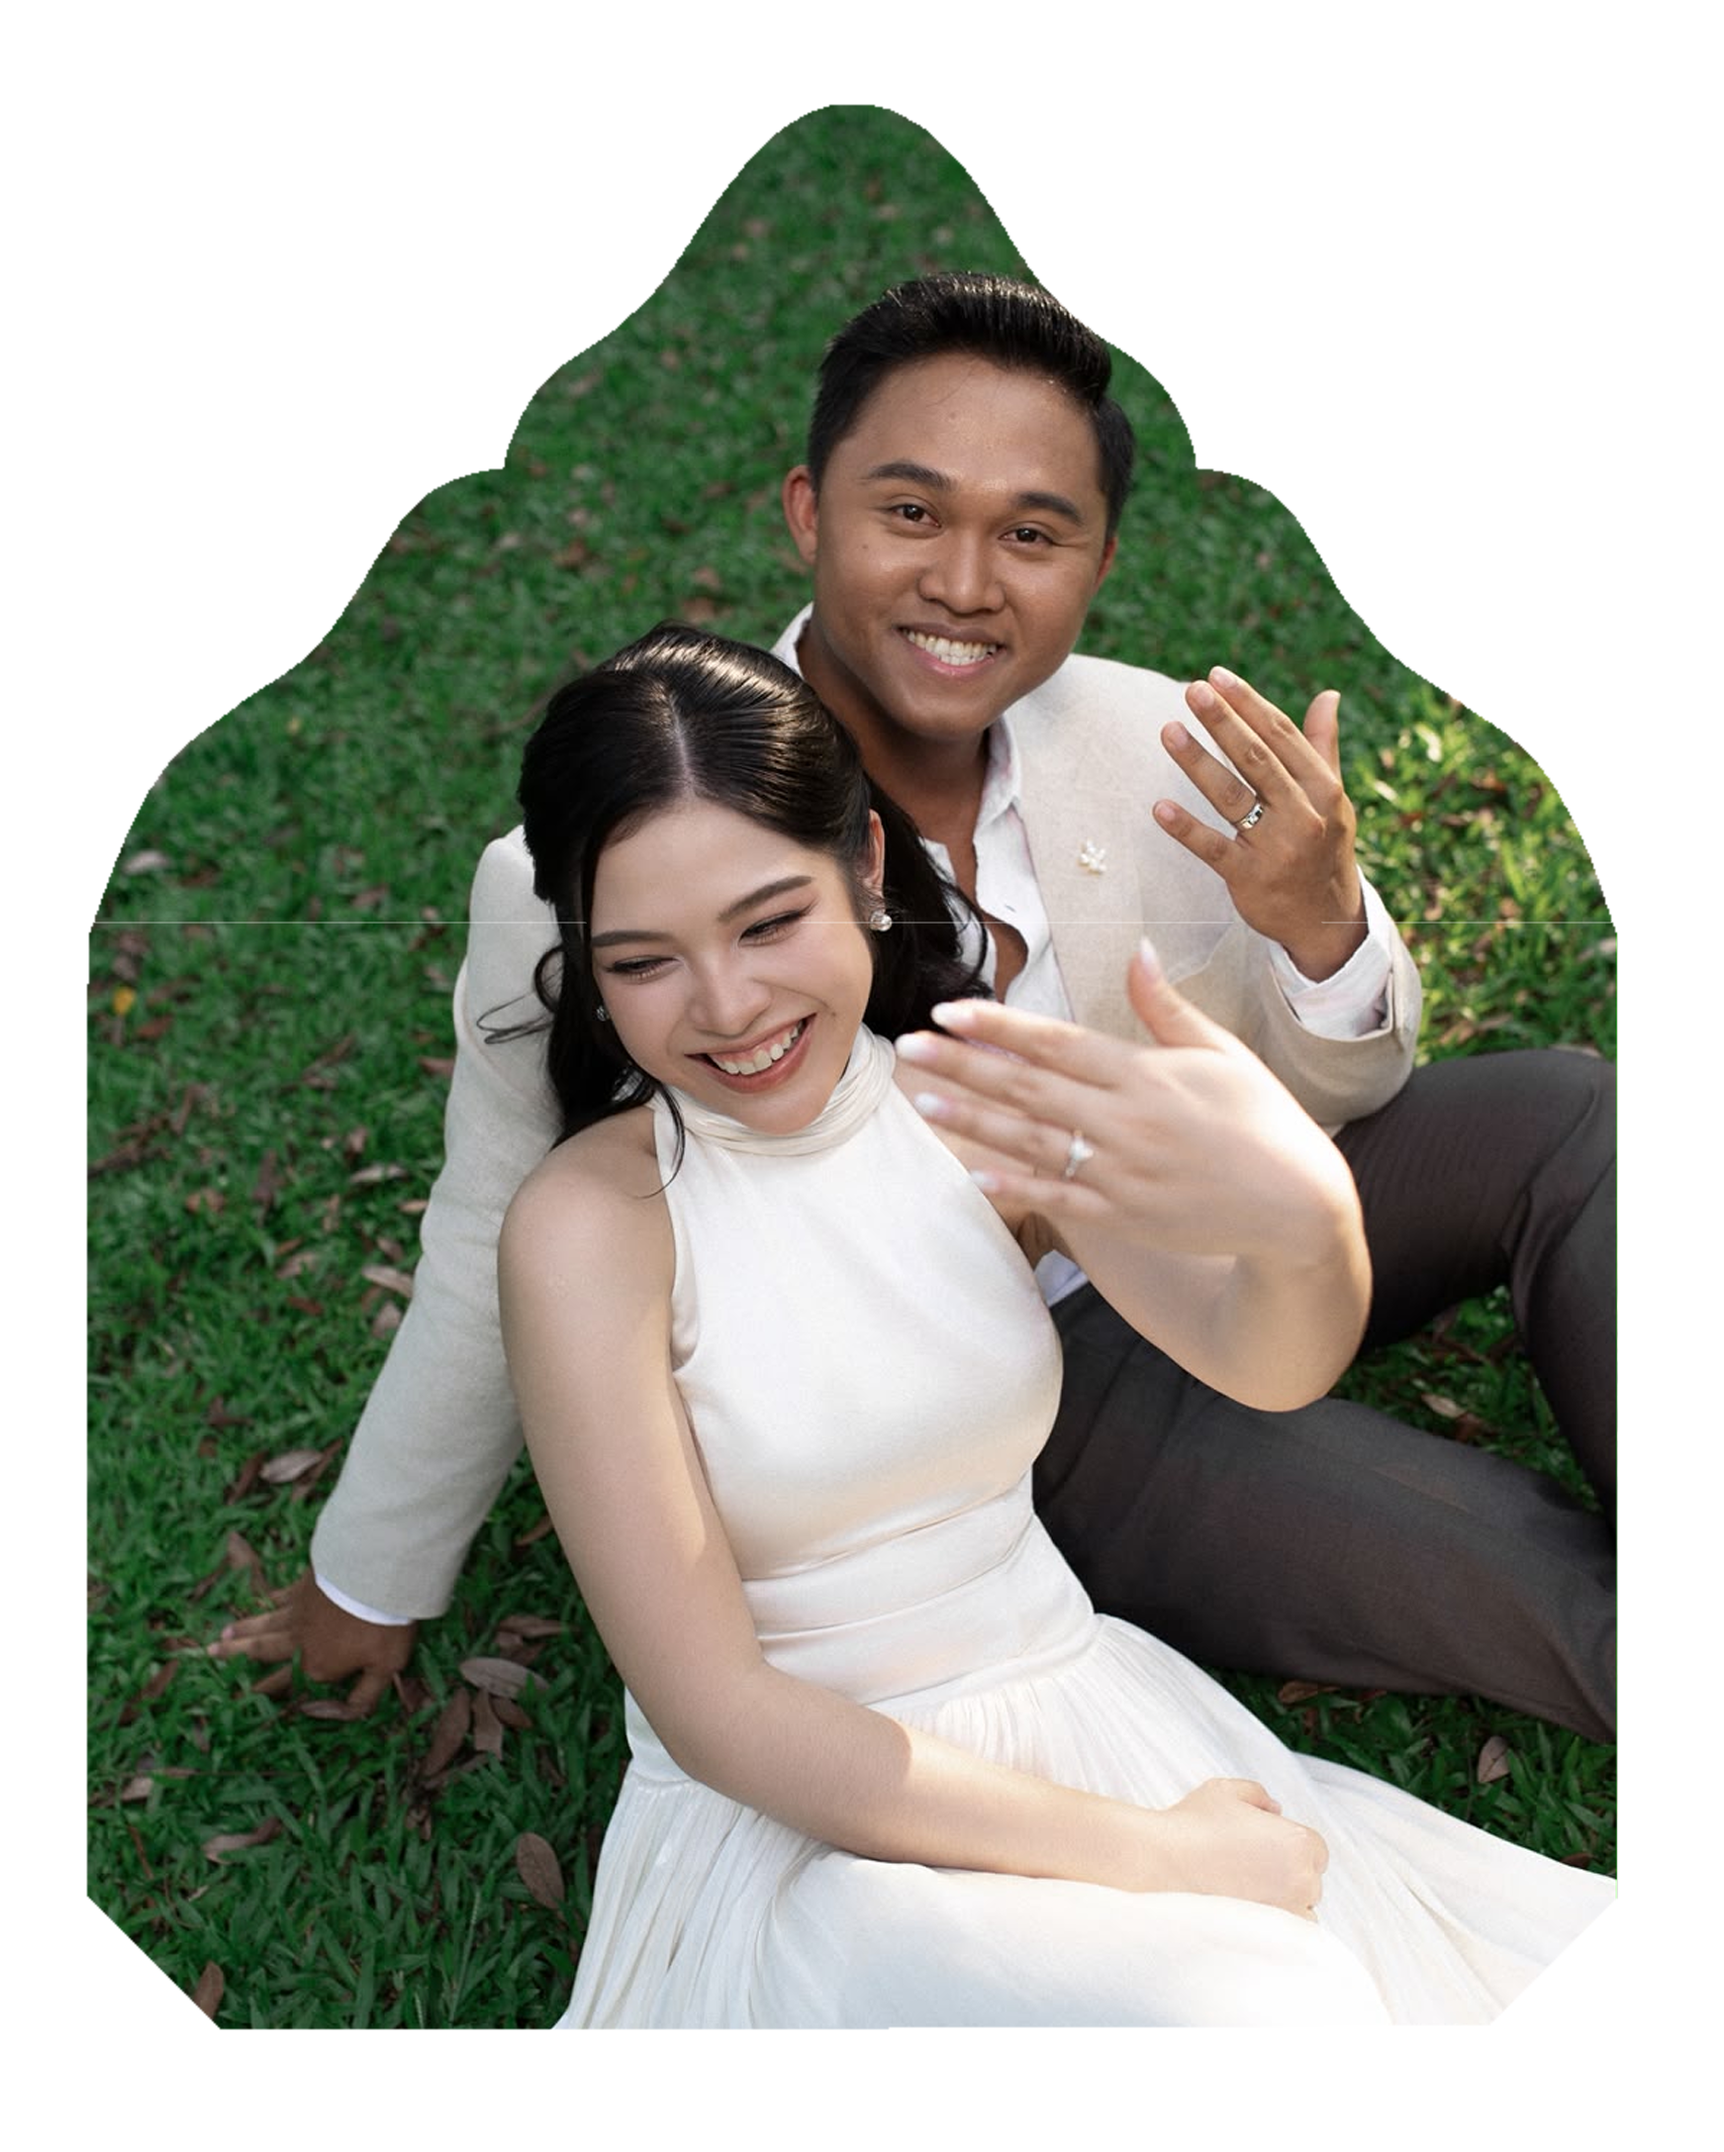
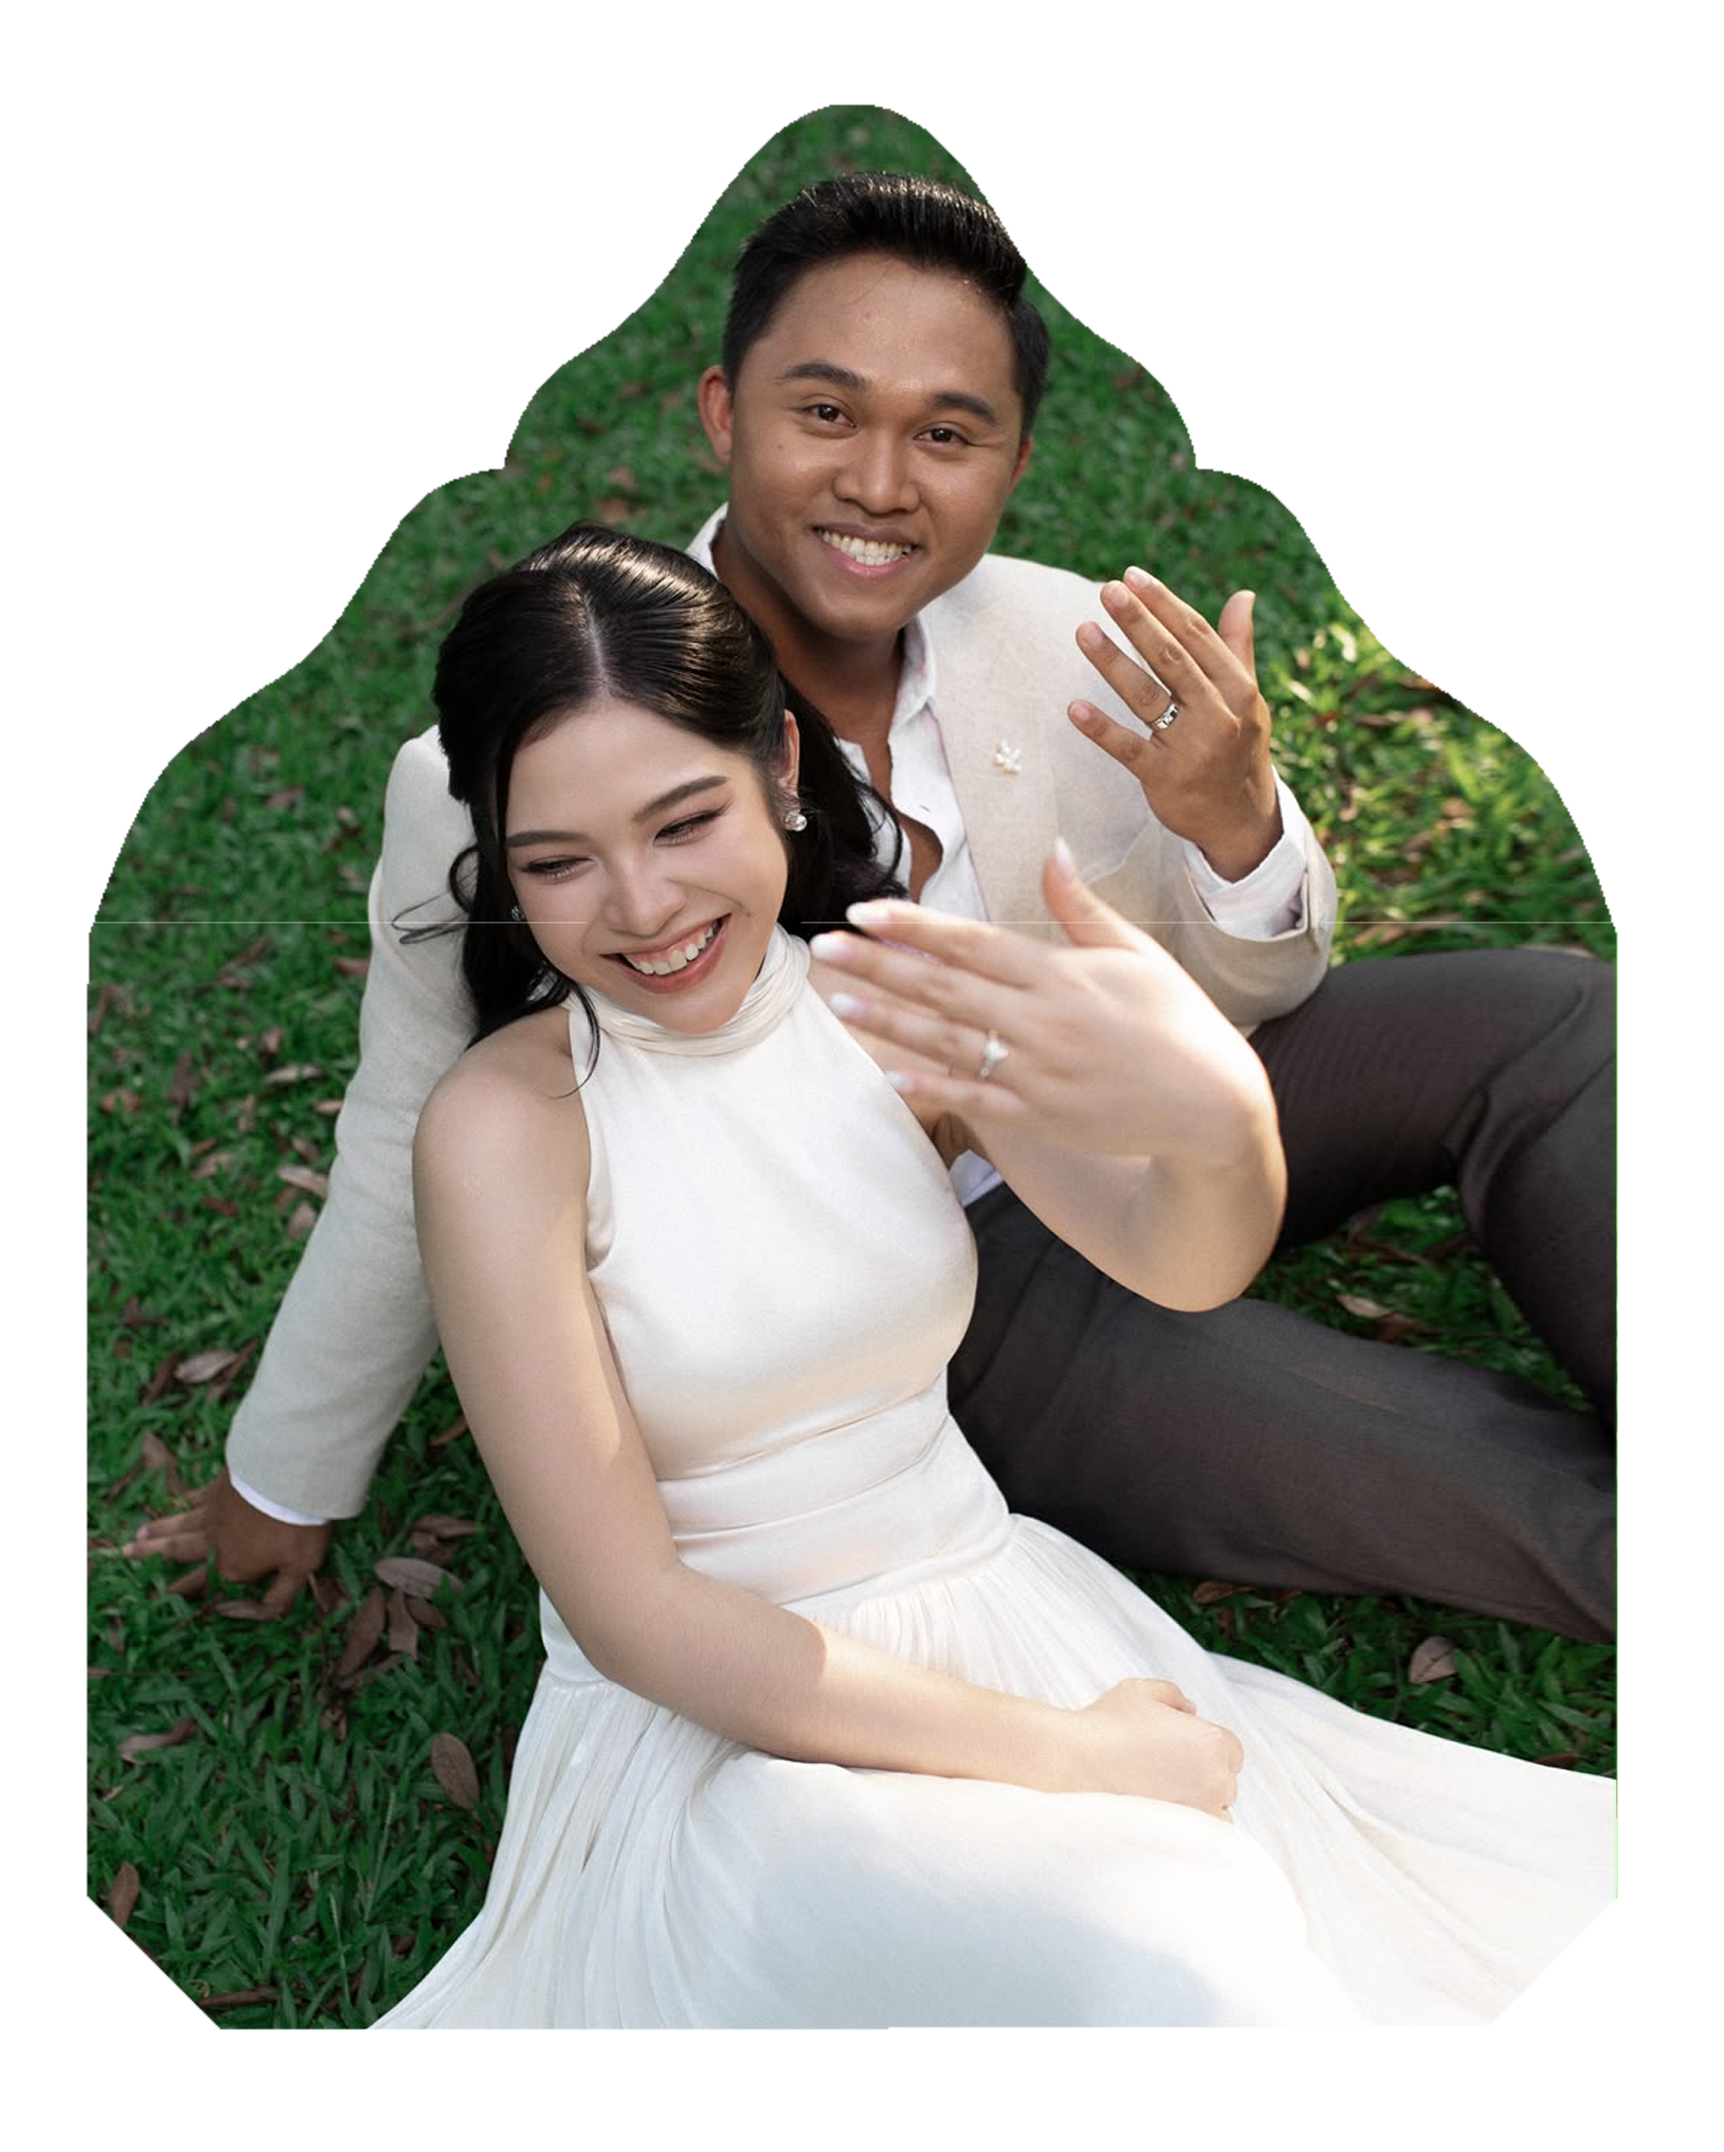
fix galleries position and brideHosts name

diff --git a/constants/index.ts b/constants/index.ts
@@ -46,42 +46,42 @@ export const invitation = {
   agenda: [
     {
       id: "baci",
-      time: "15:30",
+      time: "15:00",
       title: "Baci ceremony",
       icon: "/icons/baci.svg",
       side: "left" as const,
     },
     {
       id: "entrance",
-      time: "19:00",
+      time: "20:00",
       title: "Grand Entrance",
       icon: "/icons/entrance.svg",
       side: "right" as const,
     },
     {
       id: "dinner",
-      time: "20:00",
+      time: "20:30",
       title: "Gala Dinner",
       icon: "/icons/dinner.svg",
       side: "left" as const,
     },
     {
       id: "dance",
-      time: "20:30",
+      time: "21:00",
       title: "Lao Traditional Dance",
       icon: "/icons/dance.svg",
       side: "right" as const,
     },
     {
       id: "bouquet",
-      time: "21:30",
+      time: "22:00",
       title: "Bouquet Toss",
       icon: "/icons/bouquet.svg",
       side: "left" as const,
     },
     {
       id: "party",
-      time: "22:30",
+      time: "01:30",
       title: "Party till late",
       icon: "/icons/party.svg",
       side: "right" as const,
@@ -96,8 +96,8 @@ export const invitation = {
     groomHostsTitle: "ເຈົ້າພາບຝ່າຍຊາຍ",
     groomHosts: [
       { left: "ທ່ານ ນ. ສຸກສົມຫວັງ ສຸລິວັນ ພ້ອມດ້ວຍຄອບຄົວ", right: "" },
-      { left: "ທ່ານ ນອນ ແສງມະນີ", right: "ແລະ ທ່ານ ນ. ຄຳປະເສີດ ແສງມະນີ" },
-      { left: "ທ່ານ ທອງວັນ ພົມດີ", right: "ແລະ ທ່ານ ນ. ພອນທິບ ນິໄຊກອນ" },
+      { left: "ທ່ານ ມອນ ແສງມະນີ", right: "ແລະ ທ່ານ ນ. ຄຳປະເສີດ ແສງມະນີ" },
+      { left: "ທ່ານ ທອງວັນ ພິມດີ", right: "ແລະ ທ່ານ ນ. ພອນທິບ ນິໄຊກອນ" },
       { left: "ທ່ານ ອິນປັນ ສັດຈະພັນສີ", right: "ແລະ ທ່ານ ນ. ຈັນມະນີ ສັດຈະພັນສີ" },
       { left: "ທ່ານ ພົມພອນ ສີຫາລາດ", right: "ແລະ ທ່ານ ນ. ວາດສະໜາ ຄອນຕັນ" },
     ],
@@ -105,7 +105,7 @@ export const invitation = {
     brideHosts: [
       { left: "ທ່ານ ແສງແກ້ວ ພິລາວົງ", right: "ແລະ ທ່ານ ນ. ສຸຈິນດາ ມະນີປຸນ" },
       { left: "ທ່ານ ວຽງທະວີສອນ ເທບພະຈັນ", right: "ແລະ ທ່ານ ນ. ຈາລຸວັນ ເທບພະຈັນ" },
-      { left: "ທ່ານ ທະວີໄຊ ເຜົ່າຊົມພູ", right: "ແລະ ທ່ານ ນ. ລີວົງ ລາວລີ" },
+      { left: "ທ່ານ ທະວີໄຊ ເໜົາຊົມພູ", right: "ແລະ ທ່ານ ພົຈວ ນ. ລີວົງ ລາວລີ" },
       { left: "ທ່ານ ແກ້ວປະສົງ ໄຊໂກສີ", right: "ແລະ ທ່ານ ນ. ດາລາສຸກ ແກ້ວໜູຈັນ" },
       { left: "ທ່ານ ສົມພອນ ຮຸ່ງຍະຈິດ", right: "ແລະ ທ່ານ ນ. ມະນີສຸກ ພິລາວົງ" },
     ],

diff --git a/app/page.tsx b/app/page.tsx
@@ -688,19 +688,19 @@ export default function Page() {
                 }
                 .polaroid-wing.slot-left-top {
                   left: clamp(2px, 3vw, 28px);
-                  top: 3%;
+                  top: -30%;
                 }
                 .polaroid-wing.slot-left-bottom {
-                  left: clamp(4px, 4.5vw, 44px);
-                  bottom: 6%;
+                  left: clamp(-14px, 0.5vw, 14px);
+                  bottom: -6%;
                 }
                 .polaroid-wing.slot-right-top {
-                  right: clamp(2px, 3vw, 28px);
-                  top: 4%;
+                  right: clamp(8px, 4vw, 34px);
+                  top: -24%;
                 }
                 .polaroid-wing.slot-right-bottom {
-                  right: clamp(4px, 4.5vw, 44px);
-                  bottom: 5%;
+                  right: clamp(-8px, 1.5vw, 20px);
+                  bottom: -6%;
                 }
                 .polaroid-lightbox-card {
                   background: #faf7ef;

diff --git a/app/globals.css b/app/globals.css
@@ -326,22 +326,22 @@ body {
 
 .polaroid-wing.slot-left-top {
   left: clamp(2px, 3vw, 28px);
-  top: 3%;
+  top: -30%;
 }
 
 .polaroid-wing.slot-left-bottom {
-  left: clamp(4px, 4.5vw, 44px);
-  bottom: 6%;
+  left: clamp(-14px, 0.5vw, 14px);
+  bottom: -6%;
 }
 
 .polaroid-wing.slot-right-top {
-  right: clamp(2px, 3vw, 28px);
-  top: 4%;
+  right: clamp(8px, 4vw, 34px);
+  top: -24%;
 }
 
 .polaroid-wing.slot-right-bottom {
-  right: clamp(4px, 4.5vw, 44px);
-  bottom: 5%;
+  right: clamp(-8px, 1.5vw, 20px);
+  bottom: -6%;
 }
 
 .polaroid-lightbox-card {
